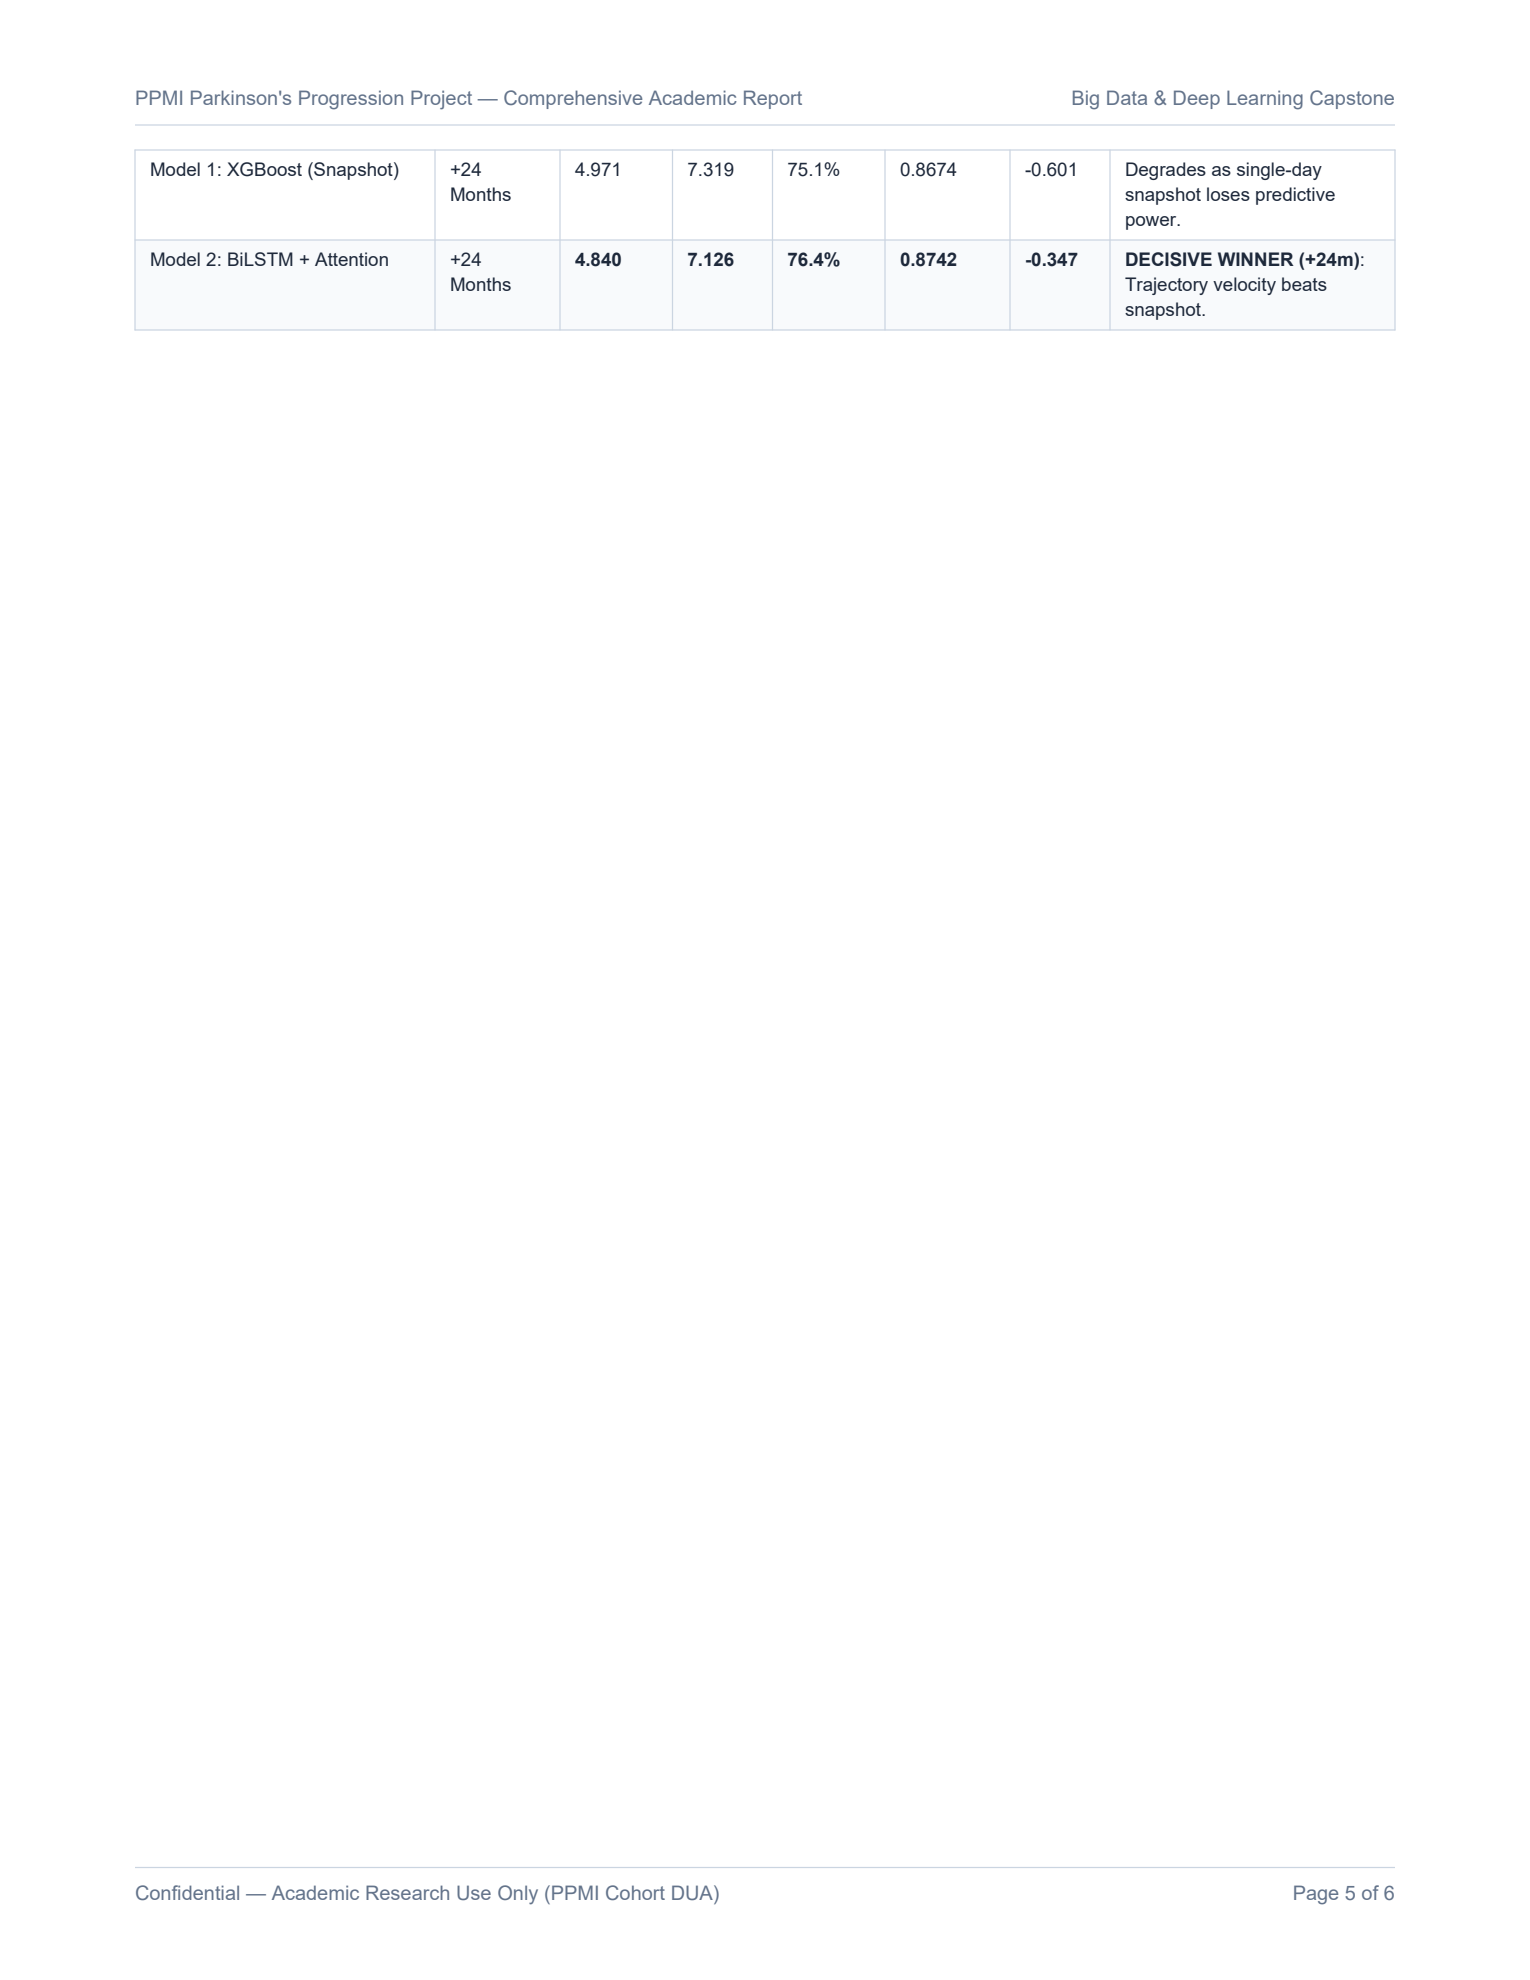
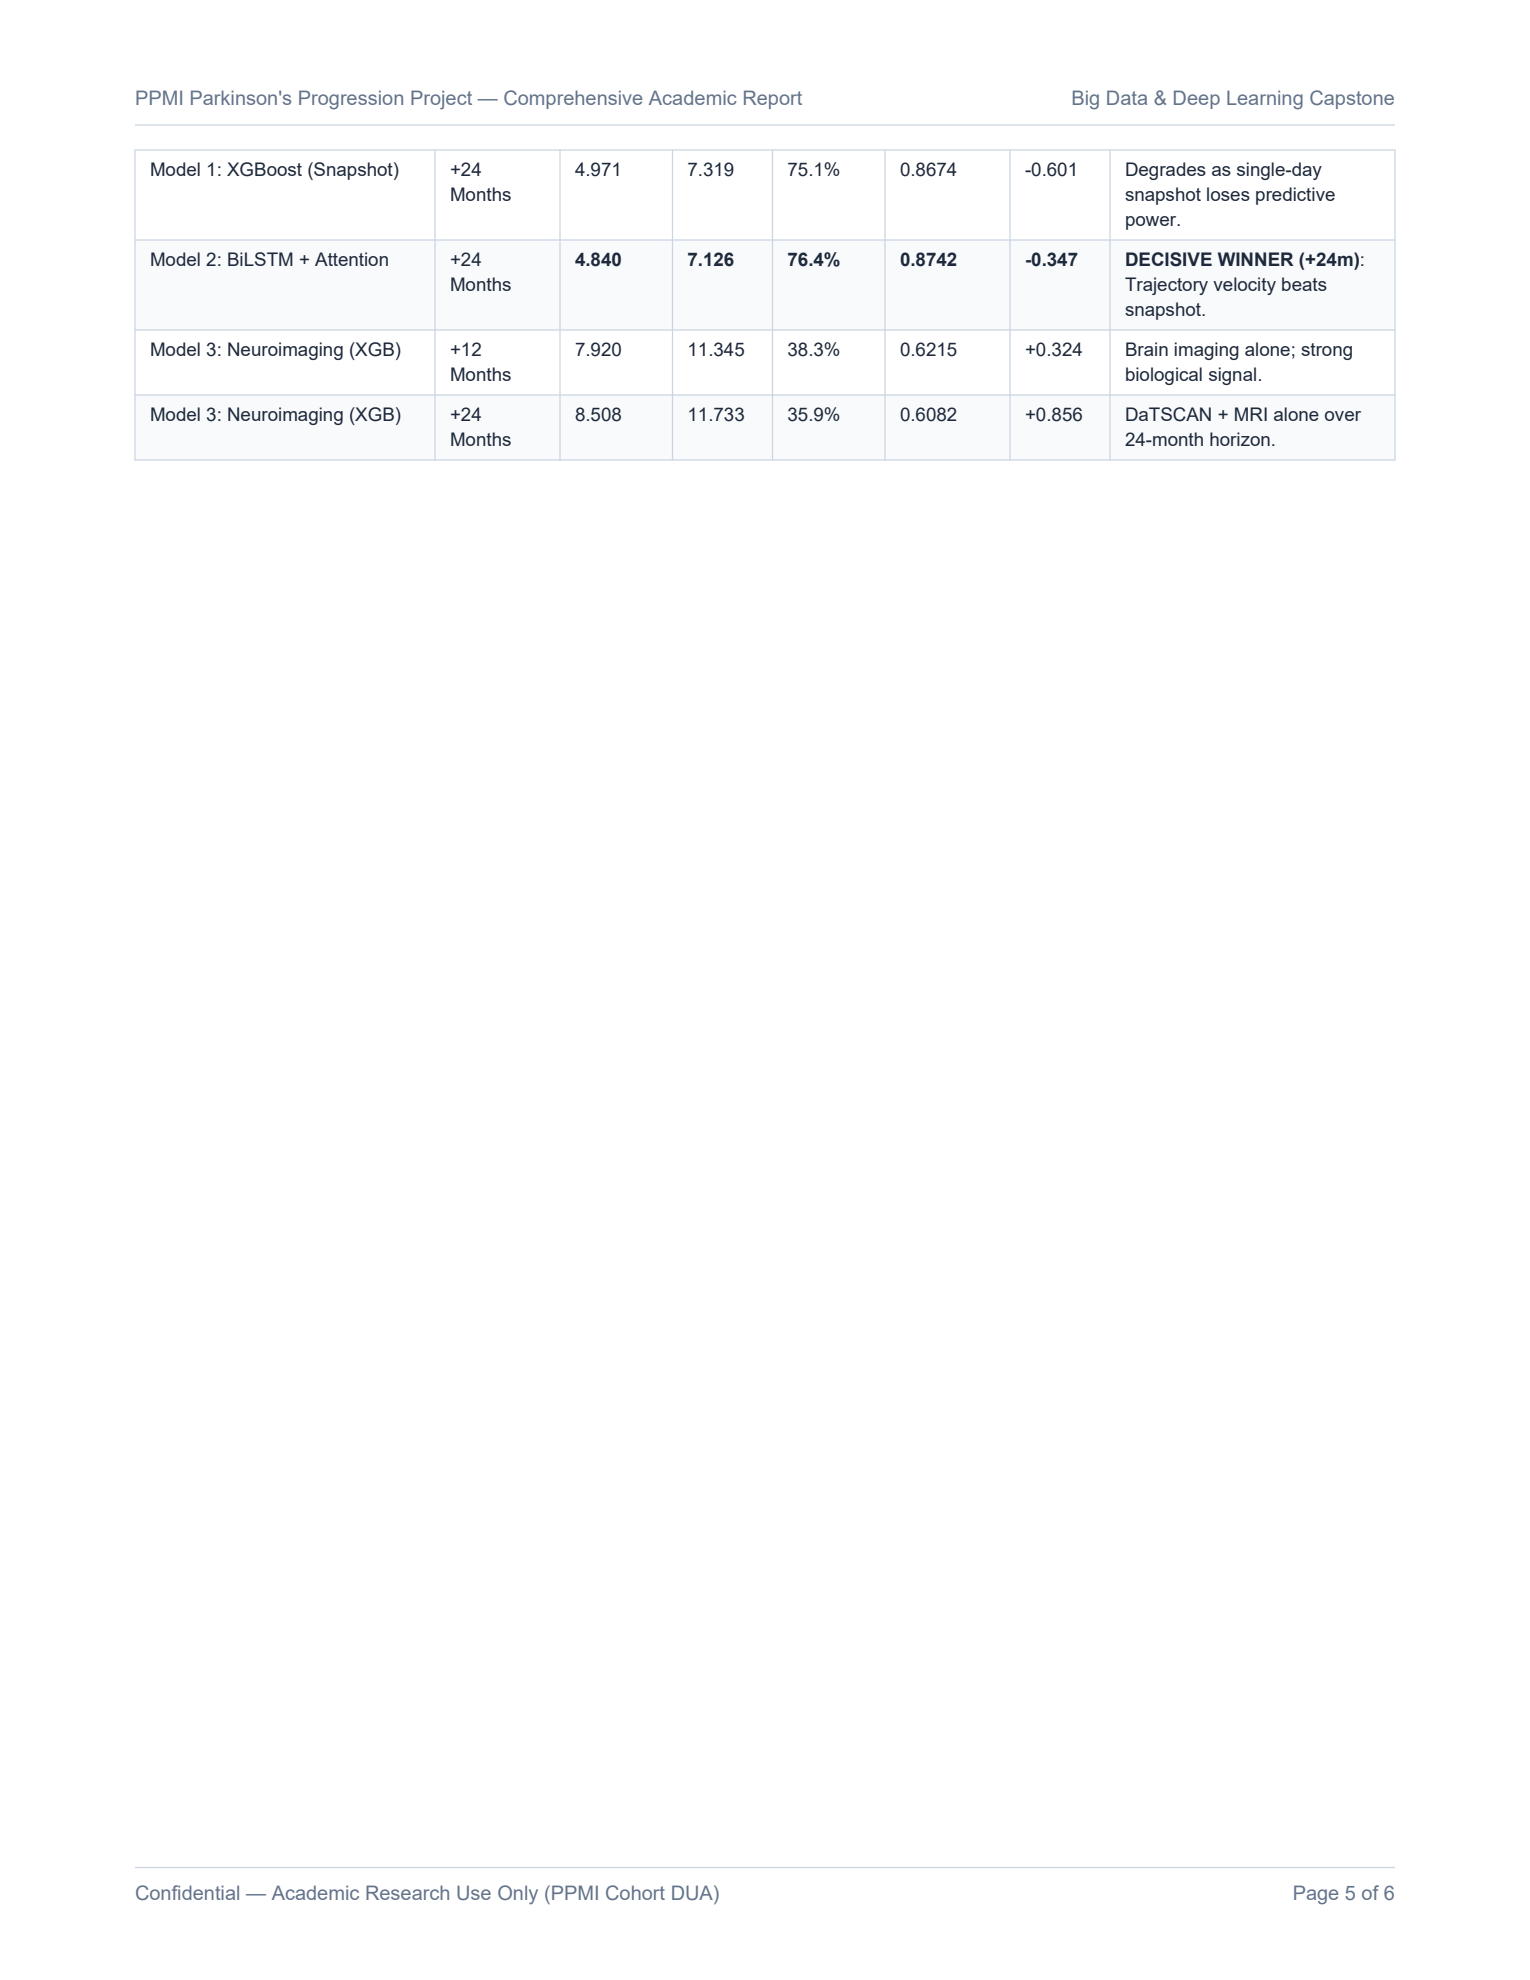
docs(baselines): add multi-panel baseline comparison figure and update report with Model 3

diff --git a/src/visualize_baselines_comparison.py b/src/visualize_baselines_comparison.py
@@ -1,0 +1,179 @@
+"""
+visualize_baselines_comparison.py
+---------------------------------
+Generates a comprehensive multi-panel publication-grade comparison figure
+for all Phase 3 Baselines (Model 1, Model 2, Model 3):
+1. Panel A: MAE by Horizon (+12m vs +24m) across all models.
+2. Panel B: Explained Variance (R²) by Horizon.
+3. Panel C: Pearson Correlation (r) with scatter trend.
+4. Panel D: ROC-AUC for Rapid Motor Worsening (MCID >= 3.5 points).
+
+Saves figure to: report/baseline_models_comparison.png
+"""
+
+import os
+import pandas as pd
+import numpy as np
+import matplotlib.pyplot as plt
+import seaborn as sns
+
+REPORT_DIR = "report"
+BENCHMARK_CSV = os.path.join(REPORT_DIR, "benchmark_results.csv")
+OUT_FIG = os.path.join(REPORT_DIR, "baseline_models_comparison.png")
+
+plt.style.use("seaborn-v0_8-whitegrid" if "seaborn-v0_8-whitegrid" in plt.style.available else "default")
+plt.rcParams["font.sans-serif"] = "DejaVu Sans"
+
+
+def generate_comparison_plot():
+    print("[1/2] Reading benchmark results ledger...")
+    df = pd.read_csv(BENCHMARK_CSV)
+    
+    # Filter for the main regression models
+    reg_df = df[df["target_horizon"].isin(["+12 Months (NP3TOT)", "+24 Months (NP3TOT)"])].copy()
+    
+    # Standardize model names for display
+    name_map = {
+        "Model 1: Tabular XGBoost": "Model 1: XGBoost\n(Snapshot Tabular)",
+        "Model 2: Longitudinal BiLSTM": "Model 2: BiLSTM + Attn\n(Longitudinal Sequence)",
+        "Model 3: Monomodal Neuroimaging (XGBoost)": "Model 3: Neuroimaging XGB\n(DaTSCAN + MRI Alone)",
+        "Model 3: Monomodal Neuroimaging (Deep MLP)": "Model 3: Neuroimaging MLP\n(Deep MLP Alone)"
+    }
+    reg_df["display_name"] = reg_df["model_name"].map(name_map)
+    reg_df = reg_df.dropna(subset=["display_name"])
+
+    # Color palette
+    colors = {
+        "Model 1: XGBoost\n(Snapshot Tabular)": "#2563eb",         # Royal Blue
+        "Model 2: BiLSTM + Attn\n(Longitudinal Sequence)": "#059669", # Emerald Green (Winner at 24m)
+        "Model 3: Neuroimaging XGB\n(DaTSCAN + MRI Alone)": "#d97706", # Amber Orange
+        "Model 3: Neuroimaging MLP\n(Deep MLP Alone)": "#dc2626"       # Crimson Red
+    }
+
+    fig, axes = plt.subplots(2, 2, figsize=(15, 11), dpi=300)
+    fig.suptitle("Phase 3 Baselines Benchmark: Model 1 vs. Model 2 vs. Model 3\nEvaluated on Held-Out Test Patients (N=583)", 
+                 fontsize=16, fontweight="bold", y=0.98, color="#0f172a")
+
+    models_order = [
+        "Model 1: XGBoost\n(Snapshot Tabular)",
+        "Model 2: BiLSTM + Attn\n(Longitudinal Sequence)",
+        "Model 3: Neuroimaging XGB\n(DaTSCAN + MRI Alone)",
+        "Model 3: Neuroimaging MLP\n(Deep MLP Alone)"
+    ]
+
+    # --- PANEL A: MAE (Mean Absolute Error) ---
+    ax_a = axes[0, 0]
+    p12_mae = [reg_df[(reg_df["display_name"] == m) & (reg_df["target_horizon"] == "+12 Months (NP3TOT)")]["mae"].values[0] for m in models_order]
+    p24_mae = [reg_df[(reg_df["display_name"] == m) & (reg_df["target_horizon"] == "+24 Months (NP3TOT)")]["mae"].values[0] for m in models_order]
+
+    x = np.arange(len(models_order))
+    width = 0.35
+
+    rects1 = ax_a.bar(x - width/2, p12_mae, width, label="+12 Months Horizon", color="#3b82f6", alpha=0.9, edgecolor="#1e3a8a")
+    rects2 = ax_a.bar(x + width/2, p24_mae, width, label="+24 Months Horizon", color="#10b981", alpha=0.9, edgecolor="#064e3b")
+
+    ax_a.set_title("A. Mean Absolute Error (MAE in Points) — Lower is Better", fontsize=12, fontweight="bold", pad=10)
+    ax_a.set_ylabel("MAE (MDS-UPDRS Part III Points)", fontsize=10, fontweight="bold")
+    ax_a.set_xticks(x)
+    ax_a.set_xticklabels(models_order, fontsize=8.5)
+    ax_a.set_ylim(0, 10.5)
+    ax_a.legend(loc="upper left", frameon=True)
+    ax_a.axhline(3.5, color="#ef4444", linestyle="--", linewidth=1.2, alpha=0.7, label="MCID Threshold (3.5 pts)")
+
+    for rect in rects1:
+        h = rect.get_height()
+        ax_a.annotate(f"{h:.2f}", xy=(rect.get_x() + rect.get_width() / 2, h), xytext=(0, 3),
+                     textcoords="offset points", ha="center", va="bottom", fontsize=8.5, fontweight="bold")
+    for rect in rects2:
+        h = rect.get_height()
+        ax_a.annotate(f"{h:.2f}", xy=(rect.get_x() + rect.get_width() / 2, h), xytext=(0, 3),
+                     textcoords="offset points", ha="center", va="bottom", fontsize=8.5, fontweight="bold")
+
+    # --- PANEL B: R² (Explained Variance) ---
+    ax_b = axes[0, 1]
+    p12_r2 = [reg_df[(reg_df["display_name"] == m) & (reg_df["target_horizon"] == "+12 Months (NP3TOT)")]["r2"].values[0] * 100 for m in models_order]
+    p24_r2 = [reg_df[(reg_df["display_name"] == m) & (reg_df["target_horizon"] == "+24 Months (NP3TOT)")]["r2"].values[0] * 100 for m in models_order]
+
+    rects1_b = ax_b.bar(x - width/2, p12_r2, width, label="+12 Months Horizon", color="#6366f1", alpha=0.9, edgecolor="#312e81")
+    rects2_b = ax_b.bar(x + width/2, p24_r2, width, label="+24 Months Horizon", color="#14b8a6", alpha=0.9, edgecolor="#134e4a")
+
+    ax_b.set_title("B. Explained Variance (R² %) — Higher is Better", fontsize=12, fontweight="bold", pad=10)
+    ax_b.set_ylabel("R² Variance Explained (%)", fontsize=10, fontweight="bold")
+    ax_b.set_xticks(x)
+    ax_b.set_xticklabels(models_order, fontsize=8.5)
+    ax_b.set_ylim(0, 90)
+    ax_b.legend(loc="upper right", frameon=True)
+
+    for rect in rects1_b:
+        h = rect.get_height()
+        ax_b.annotate(f"{h:.1f}%", xy=(rect.get_x() + rect.get_width() / 2, h), xytext=(0, 3),
+                     textcoords="offset points", ha="center", va="bottom", fontsize=8.5, fontweight="bold")
+    for rect in rects2_b:
+        h = rect.get_height()
+        ax_b.annotate(f"{h:.1f}%", xy=(rect.get_x() + rect.get_width() / 2, h), xytext=(0, 3),
+                     textcoords="offset points", ha="center", va="bottom", fontsize=8.5, fontweight="bold")
+
+    # --- PANEL C: Pearson Correlation (r) ---
+    ax_c = axes[1, 0]
+    p12_r = [reg_df[(reg_df["display_name"] == m) & (reg_df["target_horizon"] == "+12 Months (NP3TOT)")]["pearson_r"].values[0] for m in models_order]
+    p24_r = [reg_df[(reg_df["display_name"] == m) & (reg_df["target_horizon"] == "+24 Months (NP3TOT)")]["pearson_r"].values[0] for m in models_order]
+
+    rects1_c = ax_c.bar(x - width/2, p12_r, width, label="+12 Months Horizon", color="#8b5cf6", alpha=0.9, edgecolor="#4c1d95")
+    rects2_c = ax_c.bar(x + width/2, p24_r, width, label="+24 Months Horizon", color="#f59e0b", alpha=0.9, edgecolor="#78350f")
+
+    ax_c.set_title("C. Pearson Correlation (r) with Observed Trajectories", fontsize=12, fontweight="bold", pad=10)
+    ax_c.set_ylabel("Pearson Correlation Coefficient (r)", fontsize=10, fontweight="bold")
+    ax_c.set_xticks(x)
+    ax_c.set_xticklabels(models_order, fontsize=8.5)
+    ax_c.set_ylim(0, 1.05)
+    ax_c.legend(loc="lower right", frameon=True)
+
+    for rect in rects1_c:
+        h = rect.get_height()
+        ax_c.annotate(f"{h:.3f}", xy=(rect.get_x() + rect.get_width() / 2, h), xytext=(0, 3),
+                     textcoords="offset points", ha="center", va="bottom", fontsize=8.5, fontweight="bold")
+    for rect in rects2_c:
+        h = rect.get_height()
+        ax_c.annotate(f"{h:.3f}", xy=(rect.get_x() + rect.get_width() / 2, h), xytext=(0, 3),
+                     textcoords="offset points", ha="center", va="bottom", fontsize=8.5, fontweight="bold")
+
+    # --- PANEL D: ROC-AUC for Rapid Motor Worsening ---
+    ax_d = axes[1, 1]
+    cls_df = df[df["target_horizon"] == "+12m Worsening (MCID >= 3.5)"].copy()
+    cls_map = {
+        "Model 1: Tabular XGBoost Classifier": "Model 1: XGBoost\n(Snapshot Tabular)",
+        "Model 2: Longitudinal BiLSTM Classifier": "Model 2: BiLSTM + Attn\n(Longitudinal Sequence)",
+        "Model 3: Monomodal Neuroimaging Classifier": "Model 3: Neuroimaging XGB\n(DaTSCAN + MRI Alone)"
+    }
+    cls_df["display_name"] = cls_df["model_name"].map(cls_map)
+    cls_df = cls_df.dropna(subset=["display_name"])
+
+    cls_models = [
+        "Model 1: XGBoost\n(Snapshot Tabular)",
+        "Model 2: BiLSTM + Attn\n(Longitudinal Sequence)",
+        "Model 3: Neuroimaging XGB\n(DaTSCAN + MRI Alone)"
+    ]
+    auc_vals = [cls_df[cls_df["display_name"] == m]["roc_auc"].values[0] for m in cls_models]
+    bar_colors = ["#2563eb", "#059669", "#d97706"]
+
+    bars = ax_d.bar(cls_models, auc_vals, width=0.45, color=bar_colors, alpha=0.9, edgecolor="#0f172a")
+    ax_d.set_title("D. ROC-AUC for Rapid Worsening Alert (MCID >= 3.5 pts)", fontsize=12, fontweight="bold", pad=10)
+    ax_d.set_ylabel("ROC-AUC Score", fontsize=10, fontweight="bold")
+    ax_d.set_ylim(0.4, 0.85)
+    ax_d.axhline(0.5, color="#64748b", linestyle=":", linewidth=1.5, label="Random Guess (0.50)")
+    ax_d.legend(loc="upper right", frameon=True)
+
+    for bar in bars:
+        h = bar.get_height()
+        ax_d.annotate(f"{h:.4f}", xy=(bar.get_x() + bar.get_width() / 2, h), xytext=(0, 4),
+                     textcoords="offset points", ha="center", va="bottom", fontsize=9, fontweight="bold")
+
+    plt.tight_layout(rect=[0, 0, 1, 0.95])
+    os.makedirs(REPORT_DIR, exist_ok=True)
+    plt.savefig(OUT_FIG, bbox_inches="tight")
+    plt.close()
+    print(f"[2/2] Saved comprehensive baseline comparison plot to: {OUT_FIG}")
+
+
+if __name__ == "__main__":
+    generate_comparison_plot()

diff --git a/src/generate_comprehensive_project_report_pdf.py b/src/generate_comprehensive_project_report_pdf.py
@@ -493,6 +493,24 @@ def build_pdf():
          Paragraph("<b>0.8742</b>", table_cell),
          Paragraph("<b>-0.347</b>", table_cell),
          Paragraph("<b>DECISIVE WINNER (+24m)</b>: Trajectory velocity beats snapshot.", table_cell)],
+
+        [Paragraph("Model 3: Neuroimaging (XGB)", table_cell),
+         Paragraph("+12 Months", table_cell),
+         Paragraph("7.920", table_cell),
+         Paragraph("11.345", table_cell),
+         Paragraph("38.3%", table_cell),
+         Paragraph("0.6215", table_cell),
+         Paragraph("+0.324", table_cell),
+         Paragraph("Brain imaging alone; strong biological signal.", table_cell)],
+
+        [Paragraph("Model 3: Neuroimaging (XGB)", table_cell),
+         Paragraph("+24 Months", table_cell),
+         Paragraph("8.508", table_cell),
+         Paragraph("11.733", table_cell),
+         Paragraph("35.9%", table_cell),
+         Paragraph("0.6082", table_cell),
+         Paragraph("+0.856", table_cell),
+         Paragraph("DaTSCAN + MRI alone over 24-month horizon.", table_cell)],
     ]
     bench_table = Table(bench_table_data, colWidths=[120, 50, 45, 40, 45, 50, 40, 114])
     bench_table.setStyle(TableStyle([
